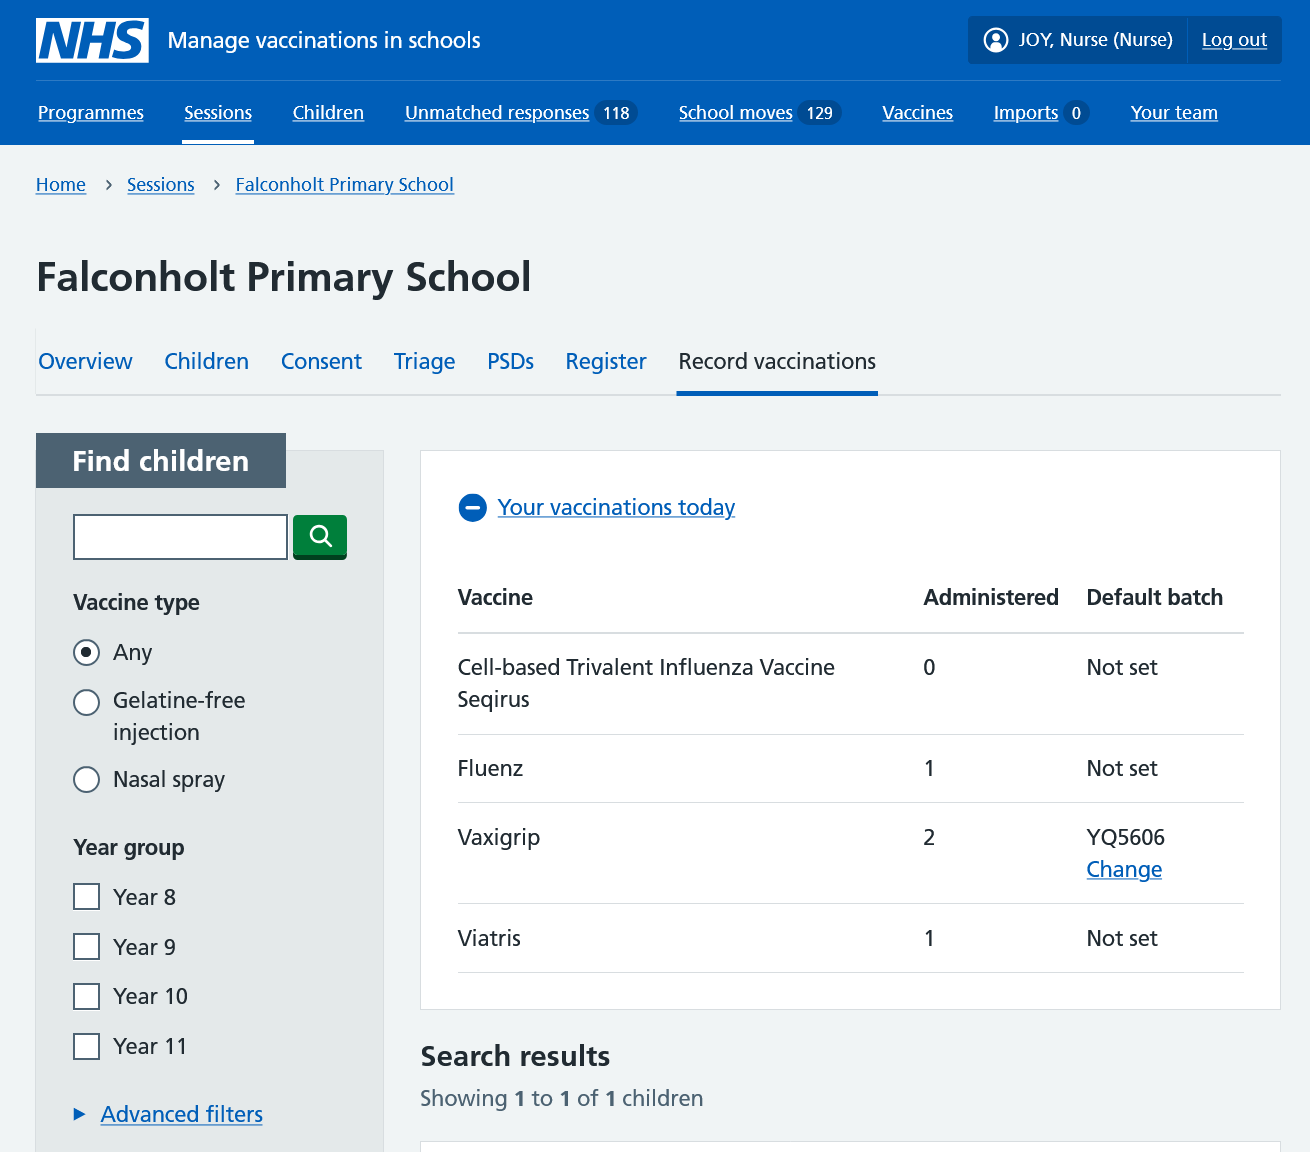
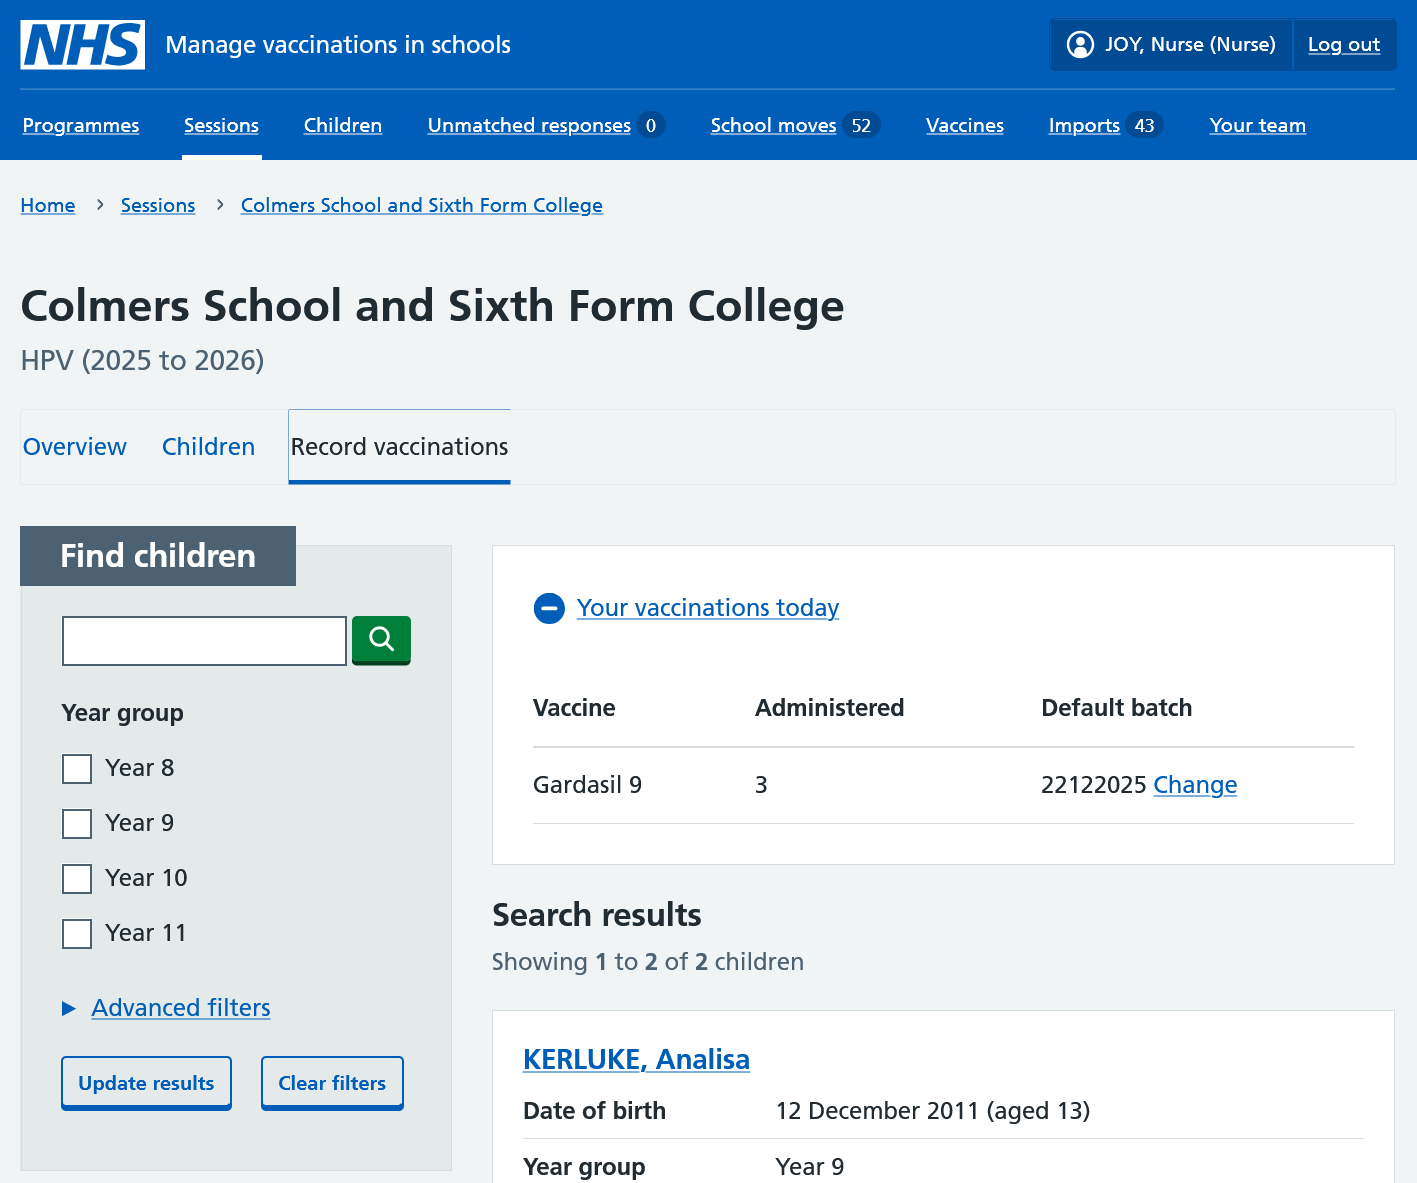
Add images reflecting new programme statuses

diff --git a/app/guide/recording-vaccinations.md b/app/guide/recording-vaccinations.md
@@ -55,6 +55,4 @@ You can see how many vaccinations you’ve given today by selecting **Your vacci
 
 ![Screenshot of tally of vaccinations given by the user today.](/assets/images/record-vaccinations-tab-with-tally.png)
 
-You can see how many vaccinations have been given by the team as a whole in the **Session overview** tab.
-
-![Screenshot of session overview with tally of vaccinations given by user.](/assets/images/session-overview-vaccinations-given.png)
+You can see how many vaccinations have been given by the team as a whole in the **Session overview** tab. (See [Keeping track of sessions](/guide/keeping-track-of-sessions.md))

diff --git a/app/guide/gillick.md b/app/guide/gillick.md
@@ -10,10 +10,10 @@ eleventyComputed:
 To assess Gillick competence for a child with no consent response:
 
 1. From the session page for a school go to the **Children** tab.
+2. Find the child using the **Needs consent** or **Has a refusal** filters.
 
 ![Screenshot of the check consent responses page.](/assets/images/session-no-consent-response.png)
 
-2. Find the child using the **Needs consent** or **Has a refusal** filters.
 3. Click on the name of the child who’s asked to be vaccinated.
 4. Scroll down the page and click on **Assess Gillick competence**.
 5. Make your assessment using the relevant radio buttons.

diff --git a/app/guide/triage.md b/app/guide/triage.md
@@ -11,7 +11,7 @@ You can triage parents’ responses to health questions for each child in a scho
 3. Select the session you’re interested in.
 4. Go to the **Children** tab and filter for **Needs triage**. You’ll see a list of children who need triage.
 
-![Screenshot of a session overview page.](/assets/images/session.png)
+![Screenshot of a list of children who need triage.](/assets/images/session-needs-triage.png)
 
 5. Select the child whose record you want to triage.
 6. Review the parent’s answers to health questions.

diff --git a/app/guide/paper-forms.md b/app/guide/paper-forms.md
@@ -16,7 +16,7 @@ If you receive a request to send a parent a paper-based consent form, you can do
 3. On the school page, click on the **Download consent form** link for the relevant vaccination programme.
 4. You can then print the form off and send it to the parent who requested it.
 
-![Screenshot of a session overview page.](/assets/images/session.png)
+![Screenshot of a session overview page.](/assets/images/session-overview.png)
 
 ## Entering a consent response from a paper form
 
